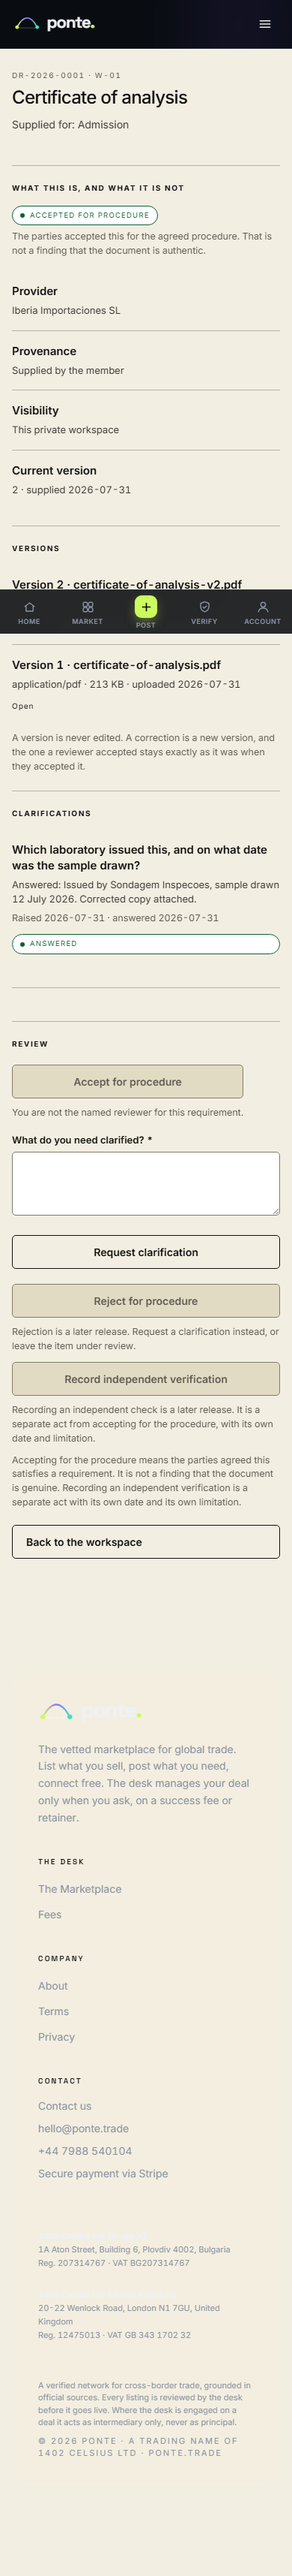
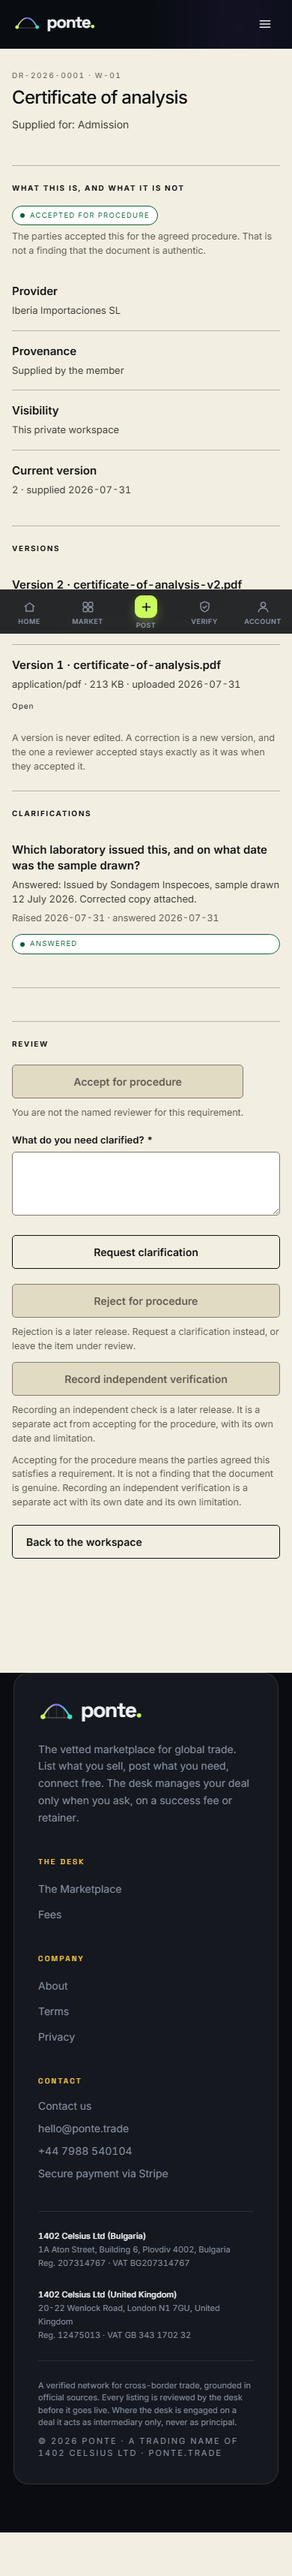
The footer residual: it was standing on the wrong canvas
The `ponte.` wordmark and the two labels above the registered addresses were
close to invisible on every Deal Room surface. The obvious reading is that those
elements have the wrong colour. They do not.

`components/SiteFooter.tsx` is styled for `--obsidian`, which is what `body` is
on every other route: gold headings, grey body copy, light ink for the wordmark
and the address labels. Every one of those is correct where the footer was
designed to stand. The Deal Room moved the floor out from under it -
`body:has(.dr-page)` repaints the canvas to `--pf-surface`, and the footer sits
outside `.dr-page`.

This also corrects the previous correction. The heading rule had been widened
from `.dr-page` to `body:has(.dr-page)` to reach those footer headings. That
worked and was wrong: THE DESK, COMPANY and CONTACT are deliberately gold, and
forcing them to `--pf-ink` silently restyled a shared component from inside the
Deal Room's stylesheet. Ink on paper is legible, so the render made it look
fixed. It was legible and not what the footer is supposed to be. That rule is
scoped back to `.dr-page`.

The fix gives the footer its own canvas back. No colour is overridden and no
brand decision is second-guessed from a stylesheet that does not own it.

Confirmed at both viewports against a live room: white wordmark, gold column
headings, both address labels and their registered numbers legible, Deal Room
content unchanged on paper.
[…]

diff --git a/components/deal-room/deal-room.css b/components/deal-room/deal-room.css
@@ -59,12 +59,16 @@
  * is which token an element inherits on this surface, which is not a fact about
  * a pair.
  *
- * Scoped with `body:has(.dr-page)`, the SAME scope as the background rule below,
- * and that matters. The first version scoped it to `.dr-page` alone and fixed the
- * page heading while leaving the site footer's column headings near-white - because
- * the footer sits outside `.dr-page` but on the canvas that rule repaints. Paint a
- * surface and you own everything standing on it. */
-body:has(.dr-page) :is(h1, h2, h3, h4) {
+ * Scoped to `.dr-page`: this is about the Deal Room's own headings, on the Deal
+ * Room's own surface.
+ *
+ * It was briefly widened to `body:has(.dr-page)` to reach the site footer, whose
+ * headings were also unreadable. That fixed the symptom and broke something else:
+ * the footer's `THE DESK` / `COMPANY` / `CONTACT` headings are deliberately gold,
+ * and forcing them to ink silently restyled a shared component from inside the
+ * Deal Room's stylesheet. The footer's real problem was never its text colour -
+ * it was standing on the wrong canvas. See the rule after next. */
+.dr-page :is(h1, h2, h3, h4) {
   color: var(--pf-ink);
 }
 
@@ -80,6 +84,25 @@ body:has(.dr-page) :is(h1, h2, h3, h4) {
  * it has today. This is the narrowest rule that reaches the canvas. */
 body:has(.dr-page) {
   background: var(--pf-surface);
+}
+
+/* ...but the site footer is designed for the canvas that replaced.
+ *
+ * `components/SiteFooter.tsx` is styled for obsidian: `text-gold` headings,
+ * `text-gray-2` body copy, and a wordmark and two address labels in light ink.
+ * Every one of those is correct on `--obsidian` and close to invisible on paper,
+ * which is what the 31 July render showed at the bottom of all twelve surfaces.
+ *
+ * Giving the footer its own canvas back is the fix that changes nothing else: no
+ * colour is overridden, no brand decision is second-guessed from here, and the
+ * footer looks exactly as it does on every other route. Recolouring its parts one
+ * by one would mean this stylesheet quietly restyling a component it does not own,
+ * and getting it wrong once already is how this rule came to exist.
+ *
+ * Scoped the same way, so no other route is touched. */
+body:has(.dr-page) > footer,
+body:has(.dr-page) footer.mt-20 {
+  background: var(--obsidian);
 }
 
 .dr {

diff --git a/docs/codex/audits/deal-room/GATE-C-APPROVAL-1-2026-07-30.md b/docs/codex/audits/deal-room/GATE-C-APPROVAL-1-2026-07-30.md
@@ -2065,3 +2065,65 @@ The capture room was built and removed. After it: 10 users, 7 listings, every
 `deal_room_*` table at 0, ledger 53. The flag is still off, nothing is deployed, the
 access wall is untouched.
 
+---
+
+# The footer residual, 31 July 2026: it was standing on the wrong canvas
+
+**Authorised:** owner, 31 July 2026 - fix the footer residual.
+
+## 87. The residual, and what it actually was
+
+After the heading fix, three things in the site footer were still close to
+invisible on every Deal Room surface: the `ponte.` wordmark, and the two labels
+above the registered addresses - "1402 Celsius Ltd (Bulgaria)" and "1402 Celsius Ltd
+(United Kingdom)".
+
+The obvious reading is that those elements have the wrong colour. They do not.
+`components/SiteFooter.tsx` is styled for `--obsidian`, which is what `body` is on
+every other route: `text-gold` headings, `text-gray-2` body copy, light ink for the
+wordmark and the address labels. Every one of those is correct where the footer was
+designed to stand.
+
+**The Deal Room moved the floor out from under it.** `body:has(.dr-page)` repaints
+the canvas to `--pf-surface`, and the footer, which sits outside `.dr-page`, was
+left on paper wearing its obsidian clothes.
+
+## 88. A correction to the previous correction
+
+The heading rule had been widened from `.dr-page` to `body:has(.dr-page)`
+specifically to reach those footer headings. That worked and was wrong: `THE DESK`,
+`COMPANY` and `CONTACT` are **deliberately gold**, and forcing them to `--pf-ink`
+silently restyled a shared component from inside the Deal Room's stylesheet. The
+render made it look fixed, because ink on paper is legible - it was legible and not
+what the footer is supposed to be.
+
+That rule is scoped back to `.dr-page`, where it belongs.
+
+## 89. The fix
+
+```css
+body:has(.dr-page) > footer,
+body:has(.dr-page) footer.mt-20 {
+  background: var(--obsidian);
+}
+```
+
+Give the footer its own canvas back. No colour is overridden, no brand decision is
+second-guessed from a stylesheet that does not own it, and the footer looks exactly
+as it does on every other route.
+
+Confirmed at both viewports: the wordmark is white, the column headings are gold,
+both address labels and their registered numbers are legible, and the Deal Room
+content above is unchanged on paper.
+
+## 90. The general lesson, which cost three attempts
+
+Repainting a canvas is not a local change. `.dr-page` paints a surface, but the
+document is taller than `.dr-page` and other people's components stand on it. The
+first fix painted the surface and forgot the headings; the second fixed the headings
+and reached into a component it did not own; the third gave the component its own
+ground back.
+
+**Production unchanged.** Capture room built and removed: 10 users, 7 listings,
+every `deal_room_*` table at 0, ledger 53. The flag is still off.
+
